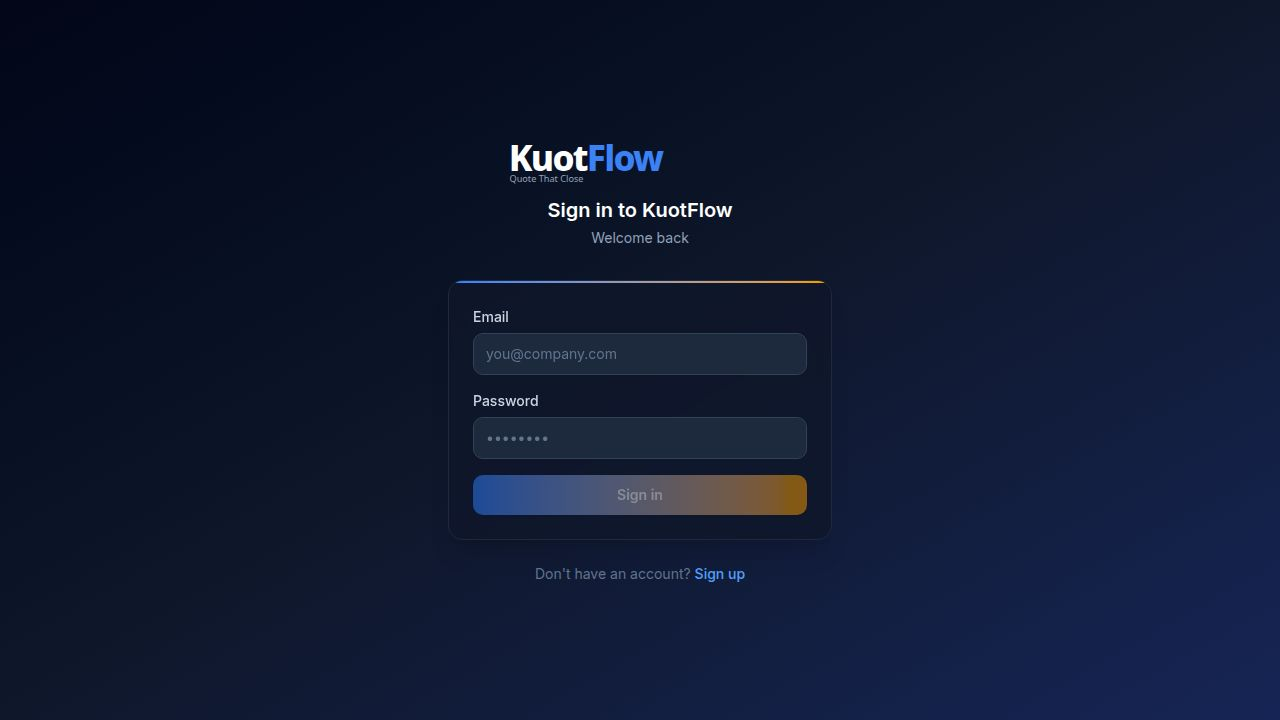
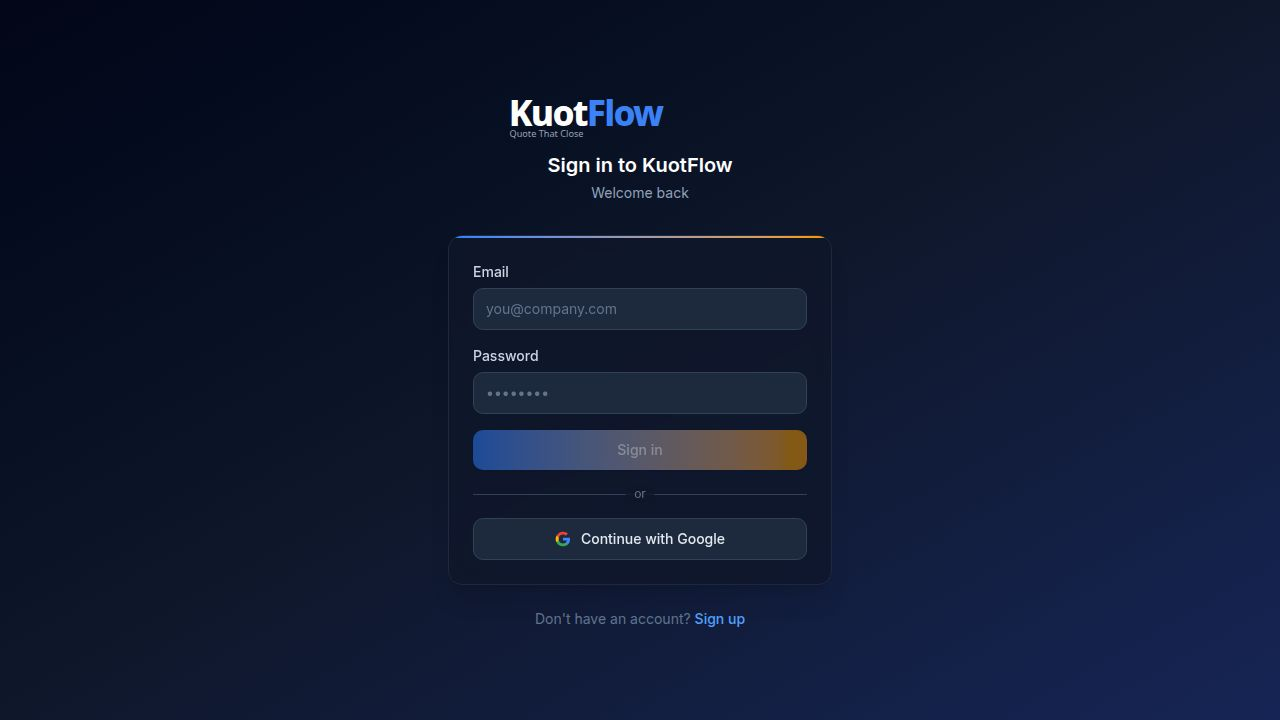
Make dashboard stat cards linkable — click to jump to filtered list
Task: #158 — Make the dashboard stat cards linkable

## Changes

### artifacts/dashboard/src/pages/DashboardPage.tsx
- Added optional `href` prop to the `StatCard` component
- When `href` is provided, the card wraps itself in a wouter `<Link>` and gains
  cursor-pointer, ring-on-hover, brightness boost, and a subtle ArrowRight icon
  that fades in on hover
- Quotation stat cards now link:
  - Outstanding → /quotations?status=SENT
  - Total Quotes → /quotations
  - Accepted → /quotations?status=ACCEPTED
  - Pending (Sent) → /quotations?status=SENT
- Invoice stat cards now link:
  - Outstanding → /invoices?status=SENT
  - Paid This Month → /invoices?status=PAID
  - Total Invoiced → /invoices
  - Draft Invoices → /invoices?status=DRAFT

### artifacts/dashboard/src/pages/quotations/QuotationsPage.tsx
- Imports `useSearch` + `useEffect` from wouter/react
- Reads the `?status=` query param on mount to initialise the filter select
- Adds a `useEffect` that reactively updates the filter if the query param
  changes while the page is already mounted (e.g. navigating between stat cards)

### artifacts/dashboard/src/pages/invoices/InvoicesPage.tsx
- Same pattern: reads `?status=` on mount and reactively syncs on query changes

## No deviations from the task spec
All acceptance criteria are met: Accepted, Pending (Sent), and invoice
Outstanding cards navigate to the correct filtered URLs; the list pages read
[…]

diff --git a/artifacts/dashboard/src/pages/DashboardPage.tsx b/artifacts/dashboard/src/pages/DashboardPage.tsx
@@ -407,13 +407,13 @@ export default function DashboardPage() {
       {/* Stat cards */}
       <div className="grid grid-cols-2 lg:grid-cols-4 gap-4">
         {([
-          { icon: DollarSign, label: "Outstanding", value: formatCurrency(outstanding), color: "text-blue-400", bg: "bg-blue-500/10", amberAccent: true },
-          { icon: FileText, label: "Total Quotes", value: String(total), color: "text-muted-foreground", bg: "bg-muted" },
-          { icon: CheckCircle, label: "Accepted", value: String(counts["ACCEPTED"] ?? 0), color: "text-emerald-400", bg: "bg-emerald-500/10" },
-          { icon: Clock, label: "Pending (Sent)", value: String(counts["SENT"] ?? 0), color: "text-amber-400", bg: "bg-amber-500/10" },
-        ] as { icon: React.ElementType; label: string; value: string; color: string; bg: string; amberAccent?: boolean }[]).map((card, i) => (
+          { icon: DollarSign, label: "Outstanding", value: formatCurrency(outstanding), color: "text-blue-400", bg: "bg-blue-500/10", amberAccent: true, href: "/quotations?status=SENT" },
+          { icon: FileText, label: "Total Quotes", value: String(total), color: "text-muted-foreground", bg: "bg-muted", href: "/quotations" },
+          { icon: CheckCircle, label: "Accepted", value: String(counts["ACCEPTED"] ?? 0), color: "text-emerald-400", bg: "bg-emerald-500/10", href: "/quotations?status=ACCEPTED" },
+          { icon: Clock, label: "Pending (Sent)", value: String(counts["SENT"] ?? 0), color: "text-amber-400", bg: "bg-amber-500/10", href: "/quotations?status=SENT" },
+        ] as { icon: React.ElementType; label: string; value: string; color: string; bg: string; amberAccent?: boolean; href?: string }[]).map((card, i) => (
           <div key={card.label} className="animate-fade-slide-in" style={{ animationDelay: `${i * 55}ms` }}>
-            <StatCard icon={card.icon} label={card.label} value={card.value} color={card.color} bg={card.bg} amberAccent={card.amberAccent} />
+            <StatCard icon={card.icon} label={card.label} value={card.value} color={card.color} bg={card.bg} amberAccent={card.amberAccent} href={card.href} />
           </div>
         ))}
       </div>
@@ -437,6 +437,7 @@ export default function DashboardPage() {
               value: formatCurrency(invoiceStats?.outstanding ?? "0"),
               color: "text-blue-400",
               bg: "bg-blue-500/10",
+              href: "/invoices?status=SENT",
             },
             {
               icon: CalendarCheck,
@@ -444,6 +445,7 @@ export default function DashboardPage() {
               value: formatCurrency(invoiceStats?.paidThisMonth ?? "0"),
               color: "text-emerald-400",
               bg: "bg-emerald-500/10",
+              href: "/invoices?status=PAID",
             },
             {
               icon: BadgeDollarSign,
@@ -451,6 +453,7 @@ export default function DashboardPage() {
               value: formatCurrency(invoiceStats?.totalInvoiced ?? "0"),
               color: "text-violet-400",
               bg: "bg-violet-500/10",
+              href: "/invoices",
             },
             {
               icon: FilePen,
@@ -458,10 +461,11 @@ export default function DashboardPage() {
               value: String(invoiceStats?.draftCount ?? 0),
               color: "text-muted-foreground",
               bg: "bg-muted",
+              href: "/invoices?status=DRAFT",
             },
-          ] as const).map((card, i) => (
+          ] as { icon: React.ElementType; label: string; value: string; color: string; bg: string; href?: string }[]).map((card, i) => (
             <div key={card.label} className="animate-fade-slide-in" style={{ animationDelay: `${i * 55}ms` }}>
-              <StatCard icon={card.icon} label={card.label} value={card.value} color={card.color} bg={card.bg} />
+              <StatCard icon={card.icon} label={card.label} value={card.value} color={card.color} bg={card.bg} href={card.href} />
             </div>
           ))}
         </div>
@@ -570,6 +574,7 @@ function StatCard({
   color,
   bg,
   amberAccent,
+  href,
 }: {
   icon: React.ElementType;
   label: string;
@@ -577,13 +582,16 @@ function StatCard({
   color: string;
   bg: string;
   amberAccent?: boolean;
+  href?: string;
 }) {
-  return (
-    <BeamCard className="p-4 flex items-center gap-3">
+  const inner = (
+    <BeamCard
+      className={`p-4 flex items-center gap-3 ${href ? "cursor-pointer transition-all hover:ring-1 hover:ring-border/80 hover:brightness-110 group" : ""}`}
+    >
       <div className={`w-10 h-10 rounded-lg ${bg} flex items-center justify-center flex-shrink-0`}>
         <Icon size={18} className={color} />
       </div>
-      <div className="min-w-0">
+      <div className="min-w-0 flex-1">
         <p className="text-muted-foreground text-xs">{label}</p>
         <p className={`font-black text-lg leading-tight truncate tabular-nums ${amberAccent ? "text-amber-400" : "text-foreground"}`}>
           {value}
@@ -592,6 +600,14 @@ function StatCard({
           <div className="h-0.5 w-8 bg-gradient-to-r from-blue-500 to-amber-500 rounded-full mt-1 opacity-70" />
         )}
       </div>
+      {href && (
+        <ArrowRight size={14} className="text-muted-foreground/30 group-hover:text-muted-foreground/70 transition-colors flex-shrink-0" />
+      )}
     </BeamCard>
   );
+
+  if (href) {
+    return <Link href={href}>{inner}</Link>;
+  }
+  return inner;
 }

diff --git a/artifacts/dashboard/src/pages/invoices/InvoicesPage.tsx b/artifacts/dashboard/src/pages/invoices/InvoicesPage.tsx
@@ -1,6 +1,6 @@
-import { useState } from "react";
+import { useState, useEffect } from "react";
 import { useListInvoices } from "@workspace/api-client-react";
-import { Link } from "wouter";
+import { Link, useSearch } from "wouter";
 import { motion } from "framer-motion";
 import { formatCurrency, formatDate, INVOICE_STATUS_LABELS } from "@/lib/format";
 import { Receipt, Search, Filter, ArrowUpDown, Plus } from "lucide-react";
@@ -35,9 +35,22 @@ function SkeletonRow() {
 }
 
 export default function InvoicesPage() {
-  const [status, setStatus] = useState("ALL");
+  const search_ = useSearch();
+  const initialStatus = (() => {
+    const p = new URLSearchParams(search_).get("status");
+    if (p && STATUSES.includes(p)) return p;
+    return "ALL";
+  })();
+
+  const [status, setStatus] = useState(initialStatus);
   const [search, setSearch] = useState("");
   const [sort, setSort] = useState<SortOption>("DEFAULT");
+
+  useEffect(() => {
+    const p = new URLSearchParams(search_).get("status");
+    const next = p && STATUSES.includes(p) ? p : "ALL";
+    setStatus(next);
+  }, [search_]);
 
   const apiStatus = status === "ALL" ? undefined : status;
   const { data: invoices = [], isLoading } = useListInvoices(

diff --git a/artifacts/dashboard/src/pages/quotations/QuotationsPage.tsx b/artifacts/dashboard/src/pages/quotations/QuotationsPage.tsx
@@ -1,6 +1,6 @@
-import { useState } from "react";
+import { useState, useEffect } from "react";
 import { useListQuotations } from "@workspace/api-client-react";
-import { Link } from "wouter";
+import { Link, useSearch } from "wouter";
 import { motion } from "framer-motion";
 import { formatCurrency, formatDate, STATUS_LABELS } from "@/lib/format";
 import { FileText, Search, Filter, ArrowUpDown, Plus } from "lucide-react";
@@ -36,9 +36,22 @@ function SkeletonRow() {
 }
 
 export default function QuotationsPage() {
-  const [status, setStatus] = useState("ALL");
+  const search_ = useSearch();
+  const initialStatus = (() => {
+    const p = new URLSearchParams(search_).get("status");
+    if (p && [...STATUSES, DEFERRED_FILTER].includes(p)) return p;
+    return "ALL";
+  })();
+
+  const [status, setStatus] = useState(initialStatus);
   const [search, setSearch] = useState("");
   const [sort, setSort] = useState<SortOption>("DEFAULT");
+
+  useEffect(() => {
+    const p = new URLSearchParams(search_).get("status");
+    const next = p && [...STATUSES, DEFERRED_FILTER].includes(p) ? p : "ALL";
+    setStatus(next);
+  }, [search_]);
 
   const isDeferred = status === DEFERRED_FILTER;
   const apiStatus = status === "ALL" || isDeferred ? undefined : status;